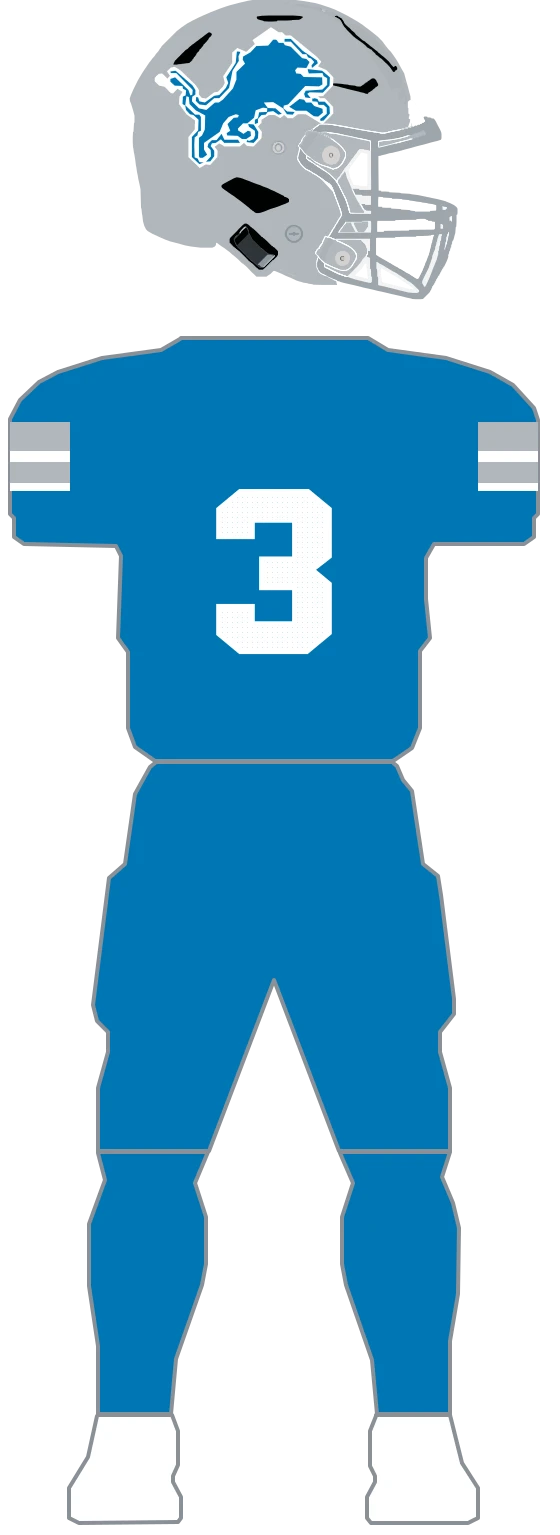
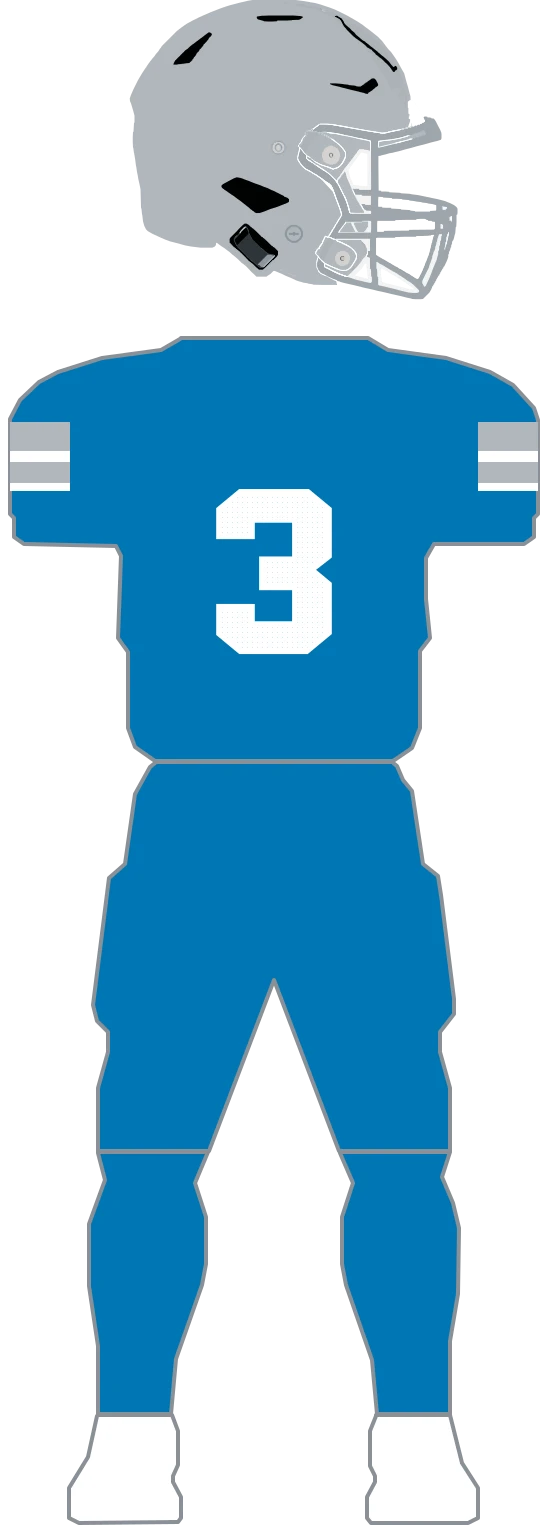
design(uniforms): refine Lions helmet decals

Changed region(s): [[0.2732, 0.0, 0.6071, 0.1225]]

diff --git a/web/lib/uniforms/teams/lions.parts.ts b/web/lib/uniforms/teams/lions.parts.ts
@@ -9,12 +9,11 @@
 // (primary) — so the two shared pant parts are blue (home) and silver (away + gridiron).
 
 import {
-  LIONS_DECAL_BODY_PATH,
-  LIONS_DECAL_KEYLINE_PATH,
   LIONS_SLEEVE_X_LEFT,
   LIONS_SLEEVE_X_RIGHT,
   LIONS_STRIPE_BOUNDS,
 } from './lions';
+import { LIONS_DECAL_PATHS as GENERATED_LIONS_DECAL_PATHS } from './lions-decal';
 import { compileParts, type PartLayer, type TeamPartsDefinition, type UniformPart } from './parts';
 import type { UniformSurface } from './types';
 
@@ -55,22 +54,14 @@ const HELMET_SILVER_LION: UniformPart = {
   base: 'silver',
   facemask: 'silver',
   layers: [
-    {
-      id: 'lions-decal-keyline',
-      surface: 'helmet',
-      d: LIONS_DECAL_KEYLINE_PATH,
+    ...GENERATED_LIONS_DECAL_PATHS.map((layer, index) => ({
+      id: `lions-decal-${index}`,
+      surface: 'helmet' as const,
+      d: layer.d,
       clip: true,
-      kind: 'fill',
-      fill: 'white',
-    },
-    {
-      id: 'lions-decal-body',
-      surface: 'helmet',
-      d: LIONS_DECAL_BODY_PATH,
-      clip: true,
-      kind: 'fill',
-      fill: 'blue',
-    },
+      kind: 'fill' as const,
+      fill: layer.fill,
+    })),
   ],
 };
 

diff --git a/web/lib/uniforms/teams/lions-decal.ts b/web/lib/uniforms/teams/lions-decal.ts
@@ -1,0 +1,8 @@
+// Provenance: user-supplied lions_leaping_lion.svg (DEP-475), club trademark/non-free art.
+// Source SHA-256: 43e78fef4fc99e3a3a5d1d278ab5ed742794af621c85ef39081951fb80fe59be
+// Direct source paths in original paint order; canvas and border paths are omitted.
+// Placement reference: https://www.gridiron-uniforms.com/GUD/controller/controller.php?action=teams&team_id=DET
+// Generated by scripts/uniform-draw/lions_decal.py; coordinates include placement.
+export const LIONS_DECAL_PATHS = [
+  { fill: 'silver', d: 'M342.838,340.041 L344.348,340.545 L346.614,341.804 L346.111,342.056 L343.593,341.049 L342.838,340.545 Z' },
+] as const;

diff --git a/web/scripts/uniform-draw/lions_decal.py b/web/scripts/uniform-draw/lions_decal.py
@@ -1,0 +1,62 @@
+"""Bake the supplied Detroit Lions mark into helmet-space paths (DEP-475)."""
+from __future__ import annotations
+
+import hashlib
+import re
+import sys
+import xml.etree.ElementTree as ET
+from pathlib import Path
+
+SOURCE = Path(sys.argv[1]) if len(sys.argv) > 1 else Path('/Users/cwharris/Downloads/decal_svgs/lions_leaping_lion.svg')
+TARGET = Path(__file__).resolve().parents[2] / 'lib/uniforms/teams/lions-decal.ts'
+TOKEN = re.compile(r'[A-Za-z]|[-+]?(?:\d*\.\d+|\d+\.?)(?:[eE][-+]?\d+)?')
+
+# The supplied art's visible mark is x=252..1797/y=432..1611 in its 2048 viewBox.
+# Fit that measured envelope to the existing Lions helmet envelope x=189..578/y=122..419.
+SX, SY, SCALE = 252.0, 432.0, 389.0 / (1797.0 - 252.0)
+TX, TY = 189.0, 122.0
+
+def path(d: str, transform: str | None) -> str:
+    nums = [float(x) for x in re.findall(r'-?(?:\d+\.?\d*|\.\d+)', transform or '')]
+    ox, oy = (nums + [0, 0])[:2]
+    tokens = TOKEN.findall(d); i = 0; cmd = ''; x = y = 0.0; start = (0.0, 0.0); out = []
+    while i < len(tokens):
+        if tokens[i].isalpha():
+            cmd = tokens[i]; i += 1
+            if cmd in 'Zz': out.append('Z'); x, y = start; continue
+        rel = cmd.islower(); op = cmd.upper()
+        if op in ('M', 'L'):
+            x0, y0 = float(tokens[i]), float(tokens[i + 1]); i += 2
+            x, y = (x + x0, y + y0) if rel else (x0, y0)
+            if op == 'M': start = (x, y)
+            out.append(('M' if op == 'M' else 'L') + f'{TX + (x + ox - SX) * SCALE:.3f},{TY + (y + oy - SY) * SCALE:.3f}')
+            if op == 'M': cmd = 'l' if rel else 'L'
+        elif op == 'H':
+            v = float(tokens[i]); i += 1; x = x + v if rel else v
+            out.append(f'L{TX + (x + ox - SX) * SCALE:.3f},{TY + (y + oy - SY) * SCALE:.3f}')
+        elif op == 'V':
+            v = float(tokens[i]); i += 1; y = y + v if rel else v
+            out.append(f'L{TX + (x + ox - SX) * SCALE:.3f},{TY + (y + oy - SY) * SCALE:.3f}')
+        else: raise ValueError(f'unsupported SVG command {cmd}')
+    return ' '.join(out)
+
+source = SOURCE.read_bytes(); root = ET.fromstring(source)
+items = []
+for element in root:
+    if element.tag.rsplit('}', 1)[-1] != 'path' or element.attrib.get('transform') == 'translate(0)':
+        continue
+    if element.attrib.get('transform') == 'translate(2008)':
+        continue
+items.append((element.attrib['fill'], path(element.attrib['d'], element.attrib.get('transform'))))
+header = ("// Provenance: user-supplied lions_leaping_lion.svg (DEP-475), club trademark/non-free art.\n"
+          f"// Source SHA-256: {hashlib.sha256(source).hexdigest()}\n"
+          "// Direct source paths in original paint order; canvas and border paths are omitted.\n"
+          "// Placement reference: https://www.gridiron-uniforms.com/GUD/controller/controller.php?action=teams&team_id=DET\n"
+          "// Generated by scripts/uniform-draw/lions_decal.py; coordinates include placement.\n"
+          "export const LIONS_DECAL_PATHS = [\n")
+def token(fill: str) -> str:
+    if fill.upper() in {'#0276B6', '#0076B6'}: return 'blue'
+    if fill.upper().startswith('#F'): return 'white'
+    return 'silver'
+
+TARGET.write_text(header + ''.join(f"  {{ fill: '{token(fill)}', d: '{d}' }},\n" for fill, d in items) + "] as const;\n")
